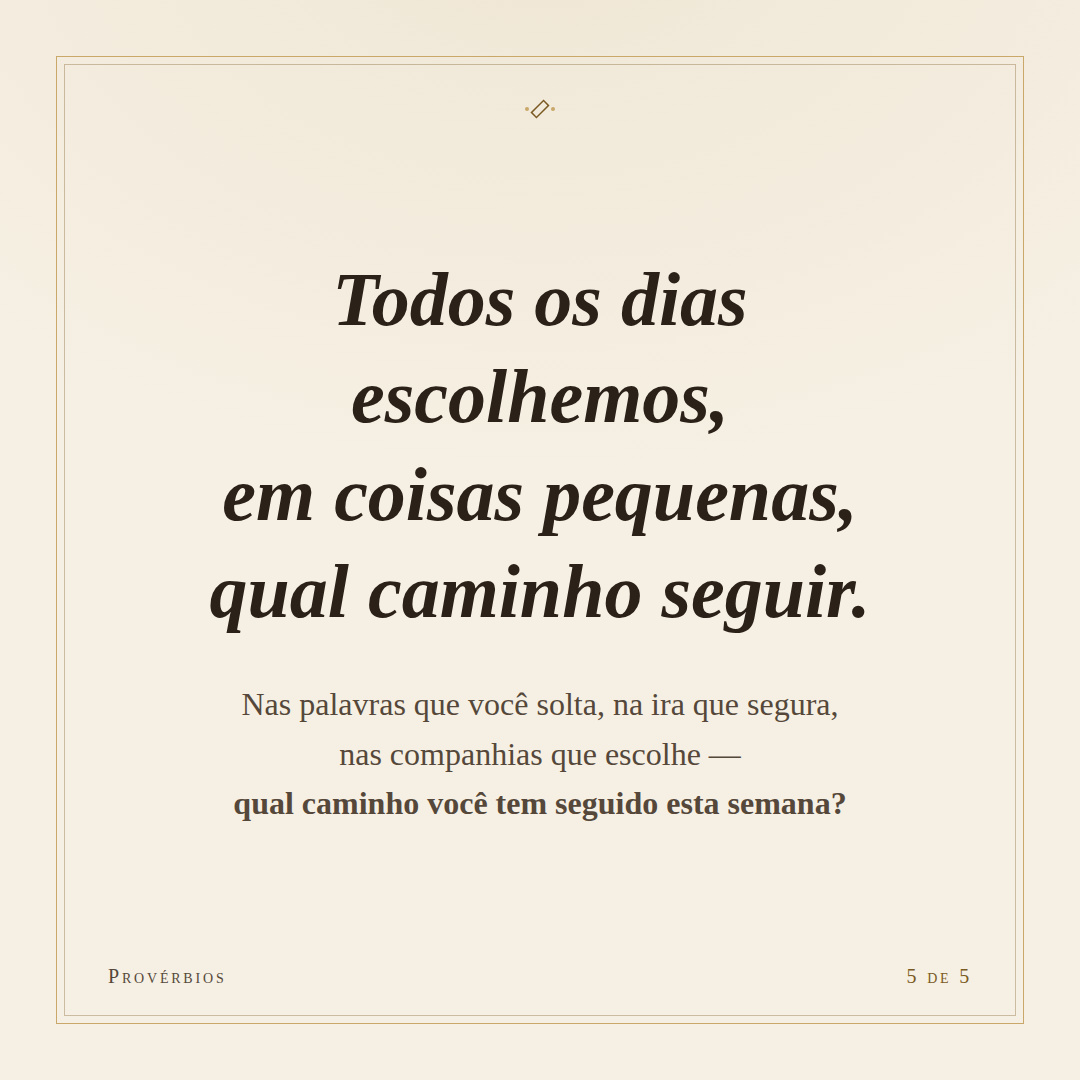
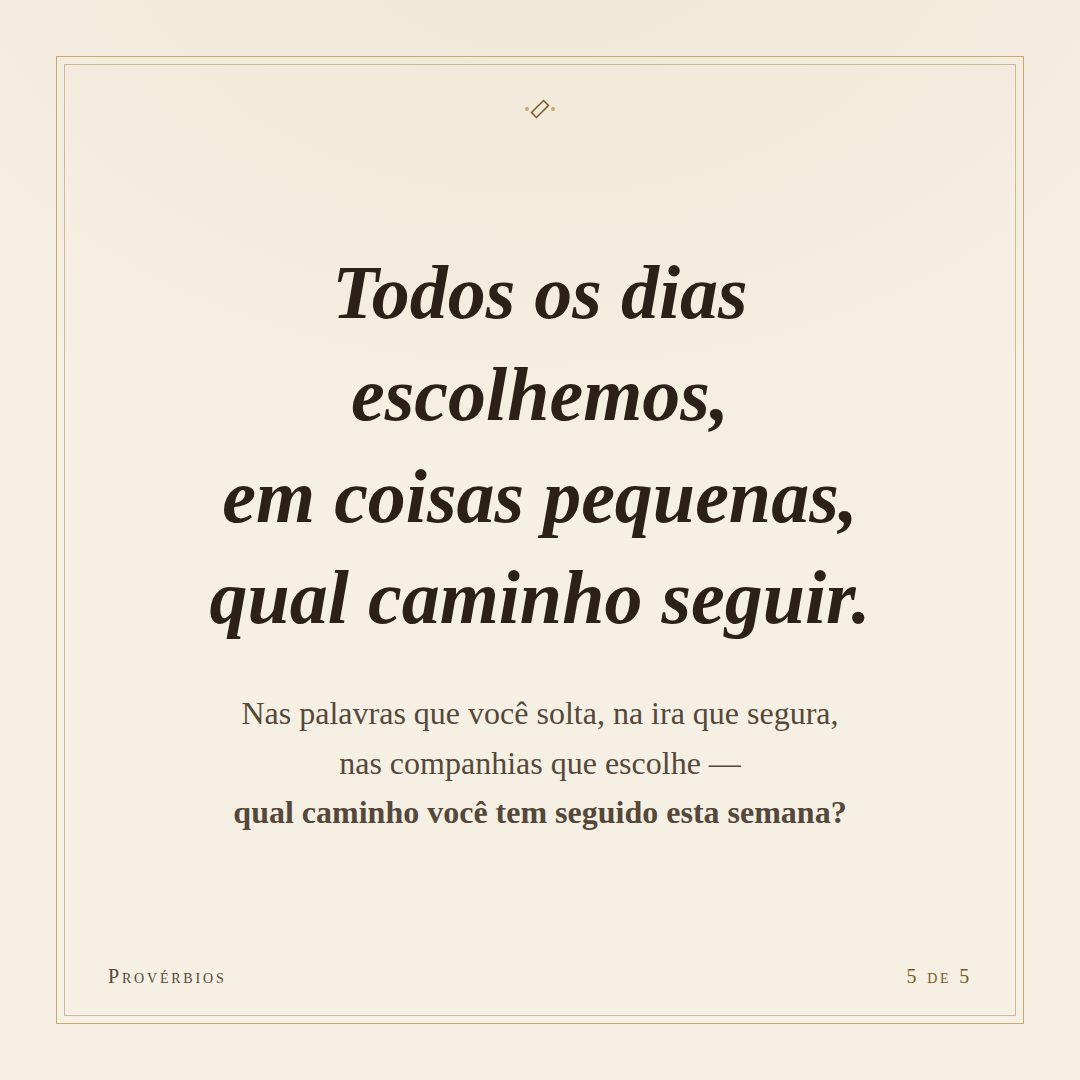
Fix design-hook findings on Proverbs carousel
- tight-leading (real issue): bump closing headline line-height from
  1.28x to 1.34x so its four wrapped lines breathe.
- wide-tracking (false positive): the flagged tracking only ever sits
  on short small-caps captions (the "mas" pivot word, verse citation,
  theme/position footers), the exact exemption the rule itself states.
  Suppressed narrowly via ignore-value, scoped to this one file.

Claude-Session: https://claude.ai/code/session_01SsDC97eV4wS8TRza27hgx9

diff --git a/carrossel-proverbios-justo-insensato/style.css b/carrossel-proverbios-justo-insensato/style.css
@@ -175,7 +175,7 @@ html, body {
   font-weight: 600;
   font-style: italic;
   font-size: 76px;
-  line-height: 1.28;
+  line-height: 1.34;
   max-width: 760px;
   color: var(--ink);
 }
